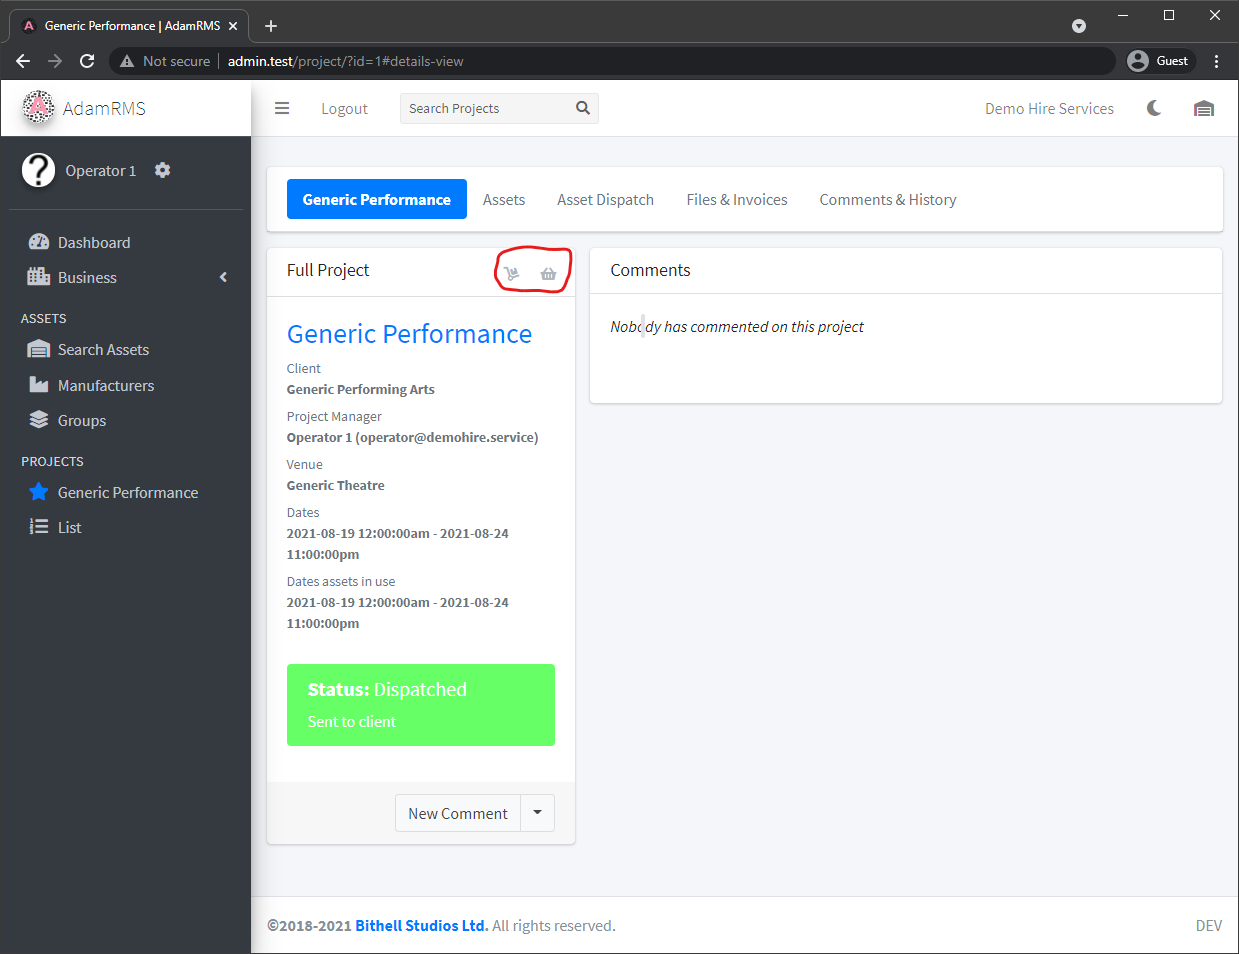
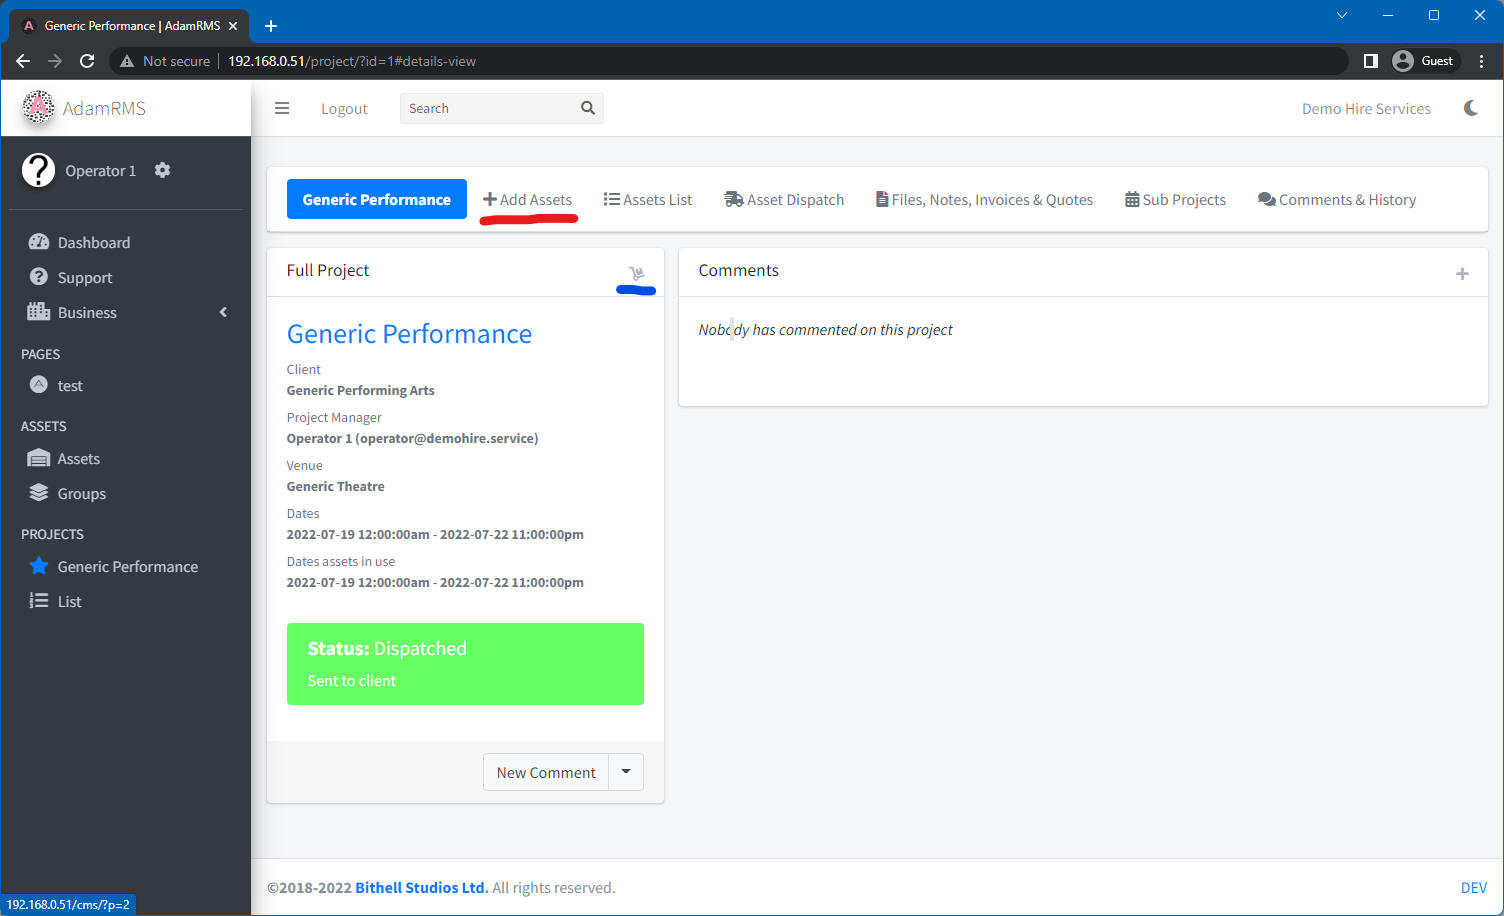
Update project information with new changes

diff --git a/docs/user-guide/assets/finding-assets.md b/docs/user-guide/assets/finding-assets.md
@@ -8,6 +8,7 @@ title: Finding Assets
 AdamRMS uses a comprehensive search system to help you find assets. You can open the search engine by clicking on the warehouse button on the left menu bar.
 
 You can search by:
+
 - Keyword - Name of asset (eg. Source 4 Jr)
 - Tags - Asset ID (A-XXXX) or custom barcode value (eg T-3214)
 - Categories - eg. ‘Lighting - Conventionals’
@@ -15,68 +16,80 @@ You can search by:
 - Groups - Business asset groups
 - Business - you can only select one at once
 
+![The Asset Search page](/img/tutorial/assets/assets-search.png)
+
 Asset availability can be checked by selecting a project (or a range of dates if you do not have permission to assign assets to projects)
 
 Page Limit, Sorting, Linked Assets and Archived assets are additional options if you need further control over searching.  
 From the search page, you can also export a full list of assets in either .xlsx or .csv formats.
 
 ## Listing Assets
+
 ---
 
 Once you’ve searched for some assets, they’ll be listed in pages.  
 Each asset type has an add-to-project option, which allows you to add any assets that can be added to the project.  
-You can also view more information about an asset by clicking on it!  
+You can also view more information about an asset by clicking on it!
 
 ## Viewing Assets
+
 ---
+
 Asset pages initially show the general Asset Type, which contains information about the asset as a whole. This includes a calendar that shows all asset assignments, and a list of all assets of that asset type
 
 ![Asset Type Listing of XLR](/img/tutorial/assets/assets-xlr-listing.png "XLR asset type in Demo Hire services")
-*Example Asset Type page*
+_Example Asset Type page_
 
 ## Asset Type Files
+
 ---
+
 Asset types can have files stored with them.
 
 :::note Asset Files Permissions  
 54 - View Asset Type File Attachments  
 55 - Upload Asset Type File Attachments  
-:::  
+:::
 
-For asset types it is suggested the files are for user manuals, info sheets and more general documentation.   
+For asset types it is suggested the files are for user manuals, info sheets and more general documentation.  
 More information about files on AdamRMS can be found [here](./../../contributor/hosting/self-hosting/intro#file-storage)
 
 ### Editing asset types
+
 ---
+
 Asset types can be altered to add additional information, Custom fields and asset thumbnails.
 
 :::note Editing Asset type permissions  
 18 - Create new Asset Type  
 58 - Edit Asset Type
-::: 
+:::
 
-![Editing asset Type Listing of XLR](/img/tutorial/assets/assets-xlr-edit.png "Editing XLR asset type in Demo Hire services") 
-*Editing XLR asset type* 
+![Editing asset Type Listing of XLR](/img/tutorial/assets/assets-xlr-edit.png "Editing XLR asset type in Demo Hire services")
+_Editing XLR asset type_
 
 Custom Fields are additional information about an asset that can be defined on an asset type basis. For example, you may use them to record the lengths of different XLR cables. To do this, the XLR asset type should have a Custom Field called Length, which can be assigned for each asset.  
-All asset types can have multiple thumbnails which can be uploaded in this section.  
+All asset types can have multiple thumbnails which can be uploaded in this section.
 
 :::caution
 If you are unable to edit an asset, it may be a built-in asset. Contact AdamRMS support to make changes to these assets.
 :::
 
 ### Individual Assets
+
 ---
+
 From the assets list, an individual asset can be viewed. The individual asset holds more information about the single object.
 
 ![Editing an individual asset](/img/tutorial/assets/assets-xlr-listing-individual.png "Editing an individual XLR asset in Demo Hire services")
-*Editing an individual XLR asset*
+_Editing an individual XLR asset_
 
-- You can assign assets to a [group](./asset-groups) from the group tab.  
-- Individual assets can have associated files, usually used for invoices.  
-- Assets can be assigned barcodes, which can be scanned in the AdamRMS App.  
+- You can assign assets to a [group](./asset-groups) from the group tab.
+- Individual assets can have associated files, usually used for invoices.
+- Assets can be assigned barcodes, which can be scanned in the AdamRMS App.
 - [Asset Maintenance](./maintenance) can be managed in the individual asset page, although the maintenance pages are more comprehensive.
 
 #### Asset Linking
+
 Assets can be linked to other assets, so that those assets are assigned to a project when the main asset is assigned.  
 To link an asset, search for the parent asset in the asset link box of the child asset.

diff --git a/docs/user-guide/projects/assets.md b/docs/user-guide/projects/assets.md
@@ -21,12 +21,11 @@ They can be assigned on a cross-business basis, to include local sub-hires.
 ## Adding Assets to Projects
 ---
 Assets are assigned using the [Asset Search functionality](../assets/finding-assets).  
-To select the project you are assigning assets to, either use the shopping basket on the asset information page, or select a project when searching assets.
+To select the project you are assigning assets to, either use the `+ Add Assets` button on the project toolbar, or select a project when searching assets.
+You can also assign all assets to the project, using the add all button.
 
 ![Select Project on the Project information page](/img/tutorial/projects/assets-shopping.png)
-*Shopping buttons are highlighted: Add All Assets to Project | Shop for this project*
-
-You can also assign all assets to the project, using the add all button.
+*Shopping buttons are highlighted: Add All Assets to Project in blue, Add assets to this project in red*
 
 
 ## Asset List
@@ -39,7 +38,9 @@ The Asset list shows all assets associated with the project, organised by Catego
 
 ### Asset List functions
 
-There are a number of functions that can be used to alter project asset properties:  
+There are a number of functions that can be used to alter project asset properties.  
+Some require additional permissions so may not be visible to you.
+
 ![Project asset functions](/img/tutorial/projects/assets-functions.png)  
 *Assignment Comment | Discount | Custom Price | Set asset Statuses | Swap Asset | Remove Asset | Expand List*
 

diff --git a/docs/user-guide/projects/overview.md b/docs/user-guide/projects/overview.md
@@ -46,9 +46,9 @@ AdamRMS has a full Audit Log, which keeps track of changes to various elements o
 ![Project audit log](/img/tutorial/projects/projects-audit.png)
 *Project History*
 
-## Files
+## Files, Notes, Invoices & Quotes
 ---
-Projects can have files and notes associated with them, to keep track of various elements.
+Projects can have various files associated with them, to keep track of documents and provide invoices or quotes to clients. 
 
 :::note File Permissions  
 44 - Edit Project Notes  
@@ -59,17 +59,10 @@ Projects can have files and notes associated with them, to keep track of various
 ![Project Files](/img/tutorial/projects/projects-files.png)
 *Notes and Projects for the project*
 
-Notes are intended to be used for meeting notes and event plans.
+Notes are intended to be used for meeting notes and event plans.  
 
-## Invoice & Quotes
----
-Projects can have quoatations and invoices assoiated for them
-
-
-
-![Project Invoice & Quotes](/img/tutorial/projects/projects-invoice.png)
-*Invoices and Quotes for the project*
-
+Invoices and Quotes have different footers, which can be set in [the settings page](../business/business-settings#basic-settings).  
+More information about Invoices and Quotes can be found in the [finance overview](./finance).
 
 ## Sub-projects
 ---
